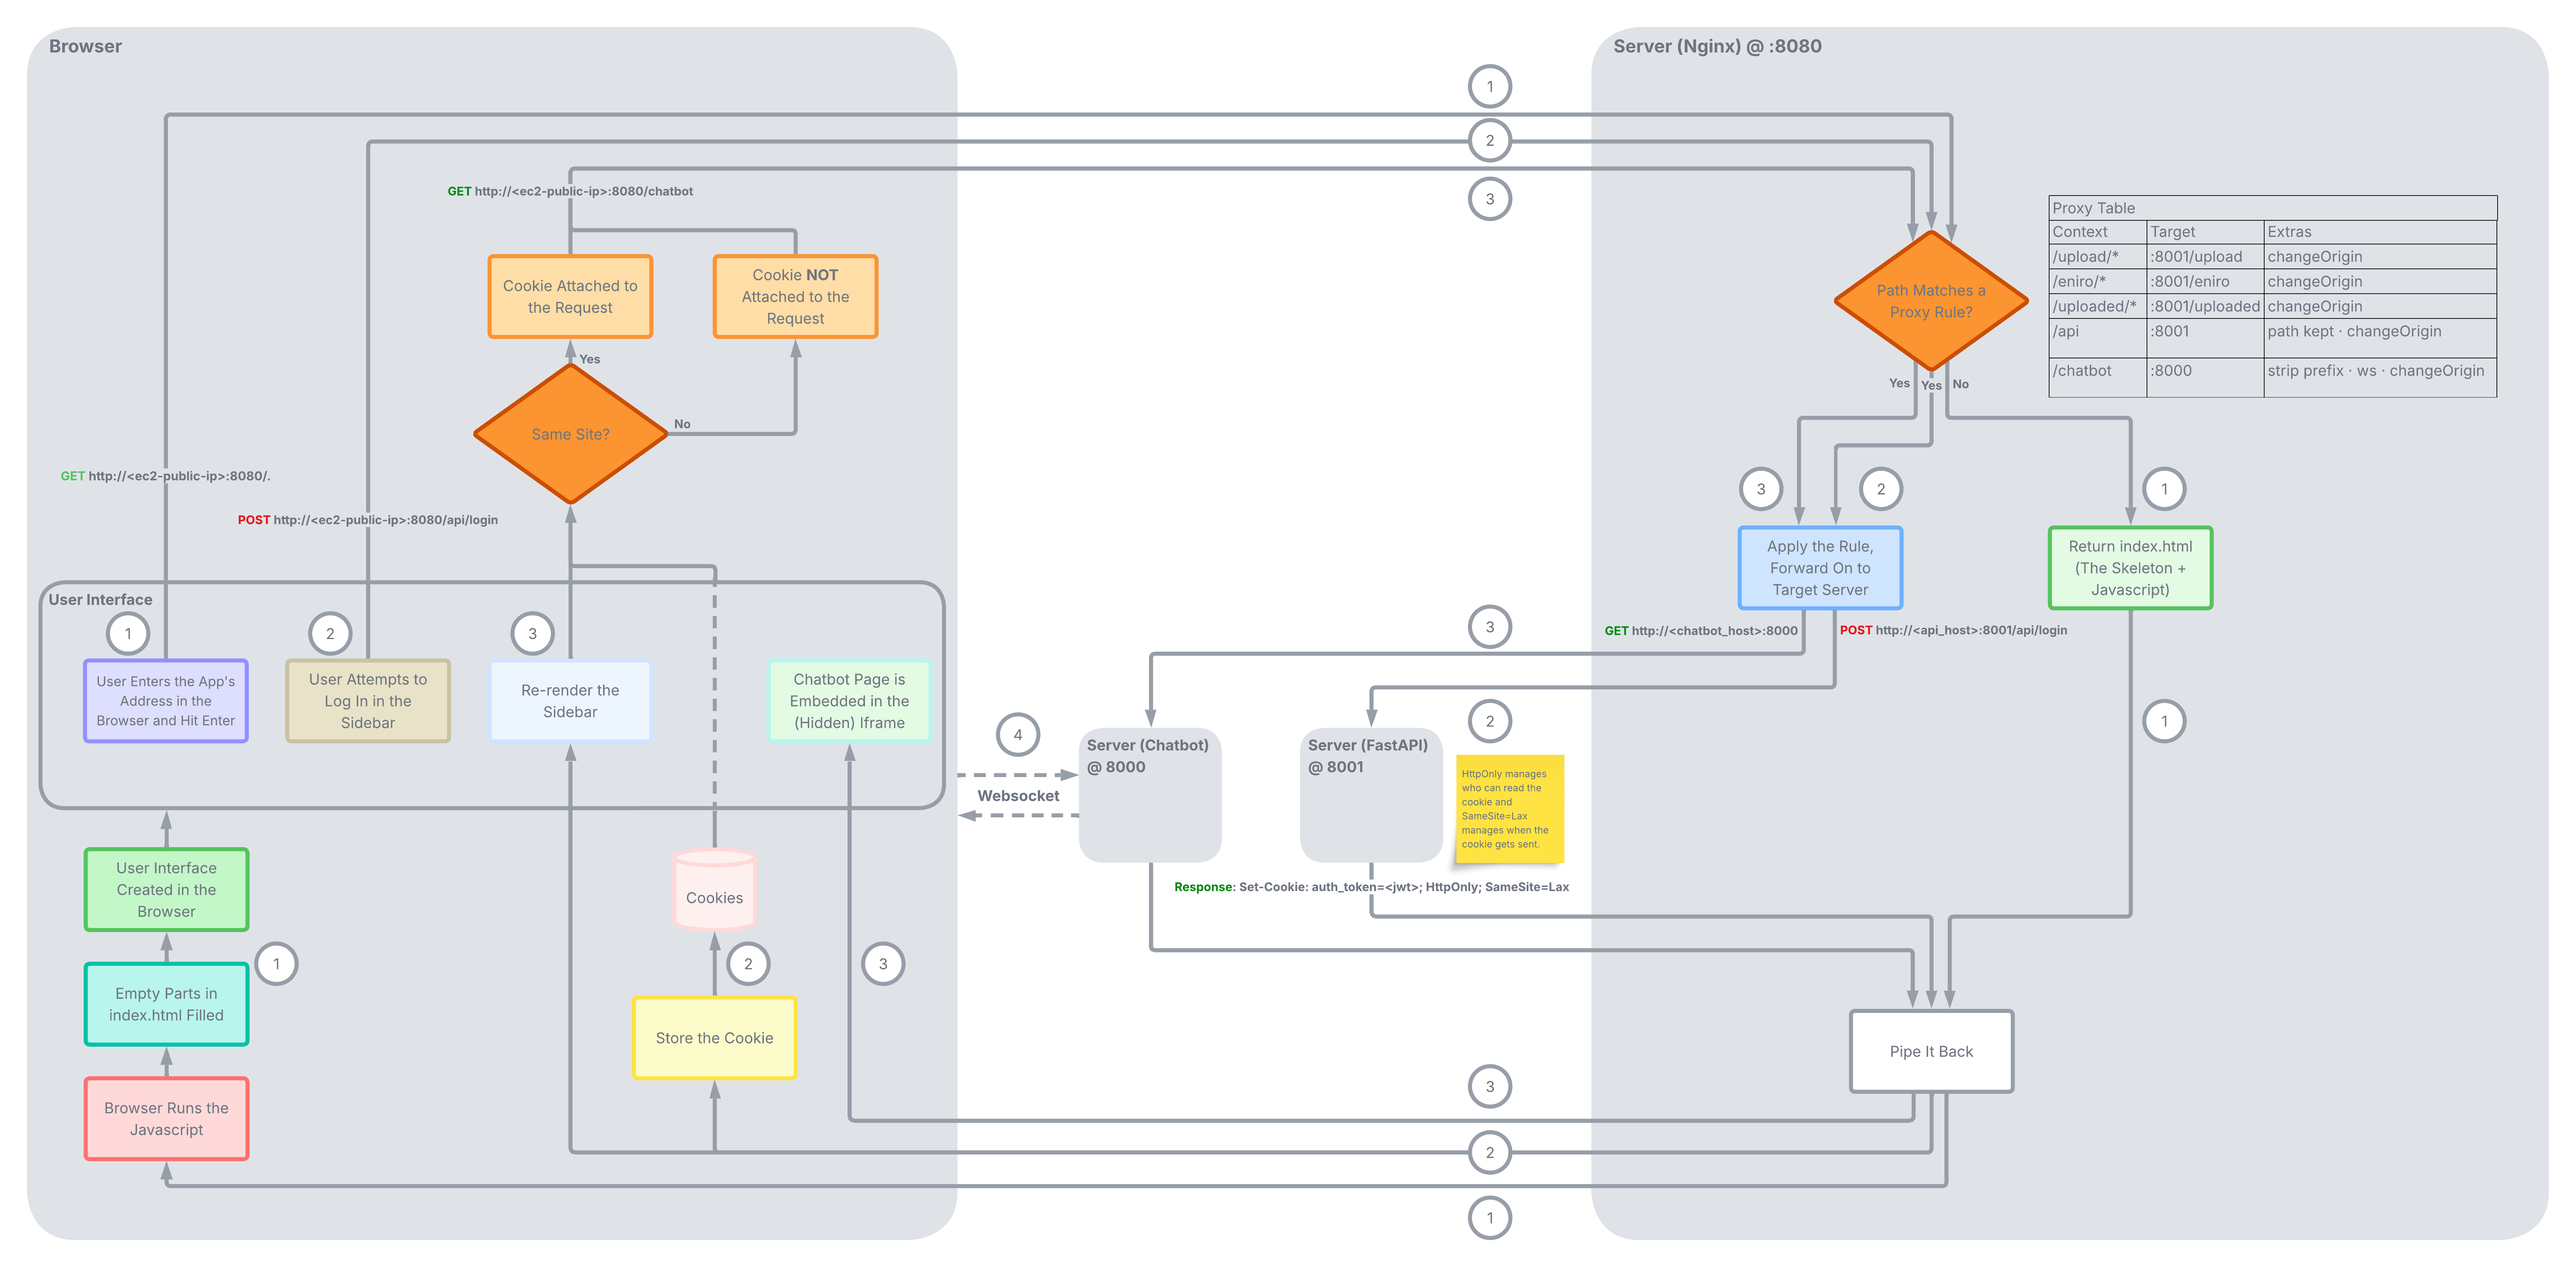
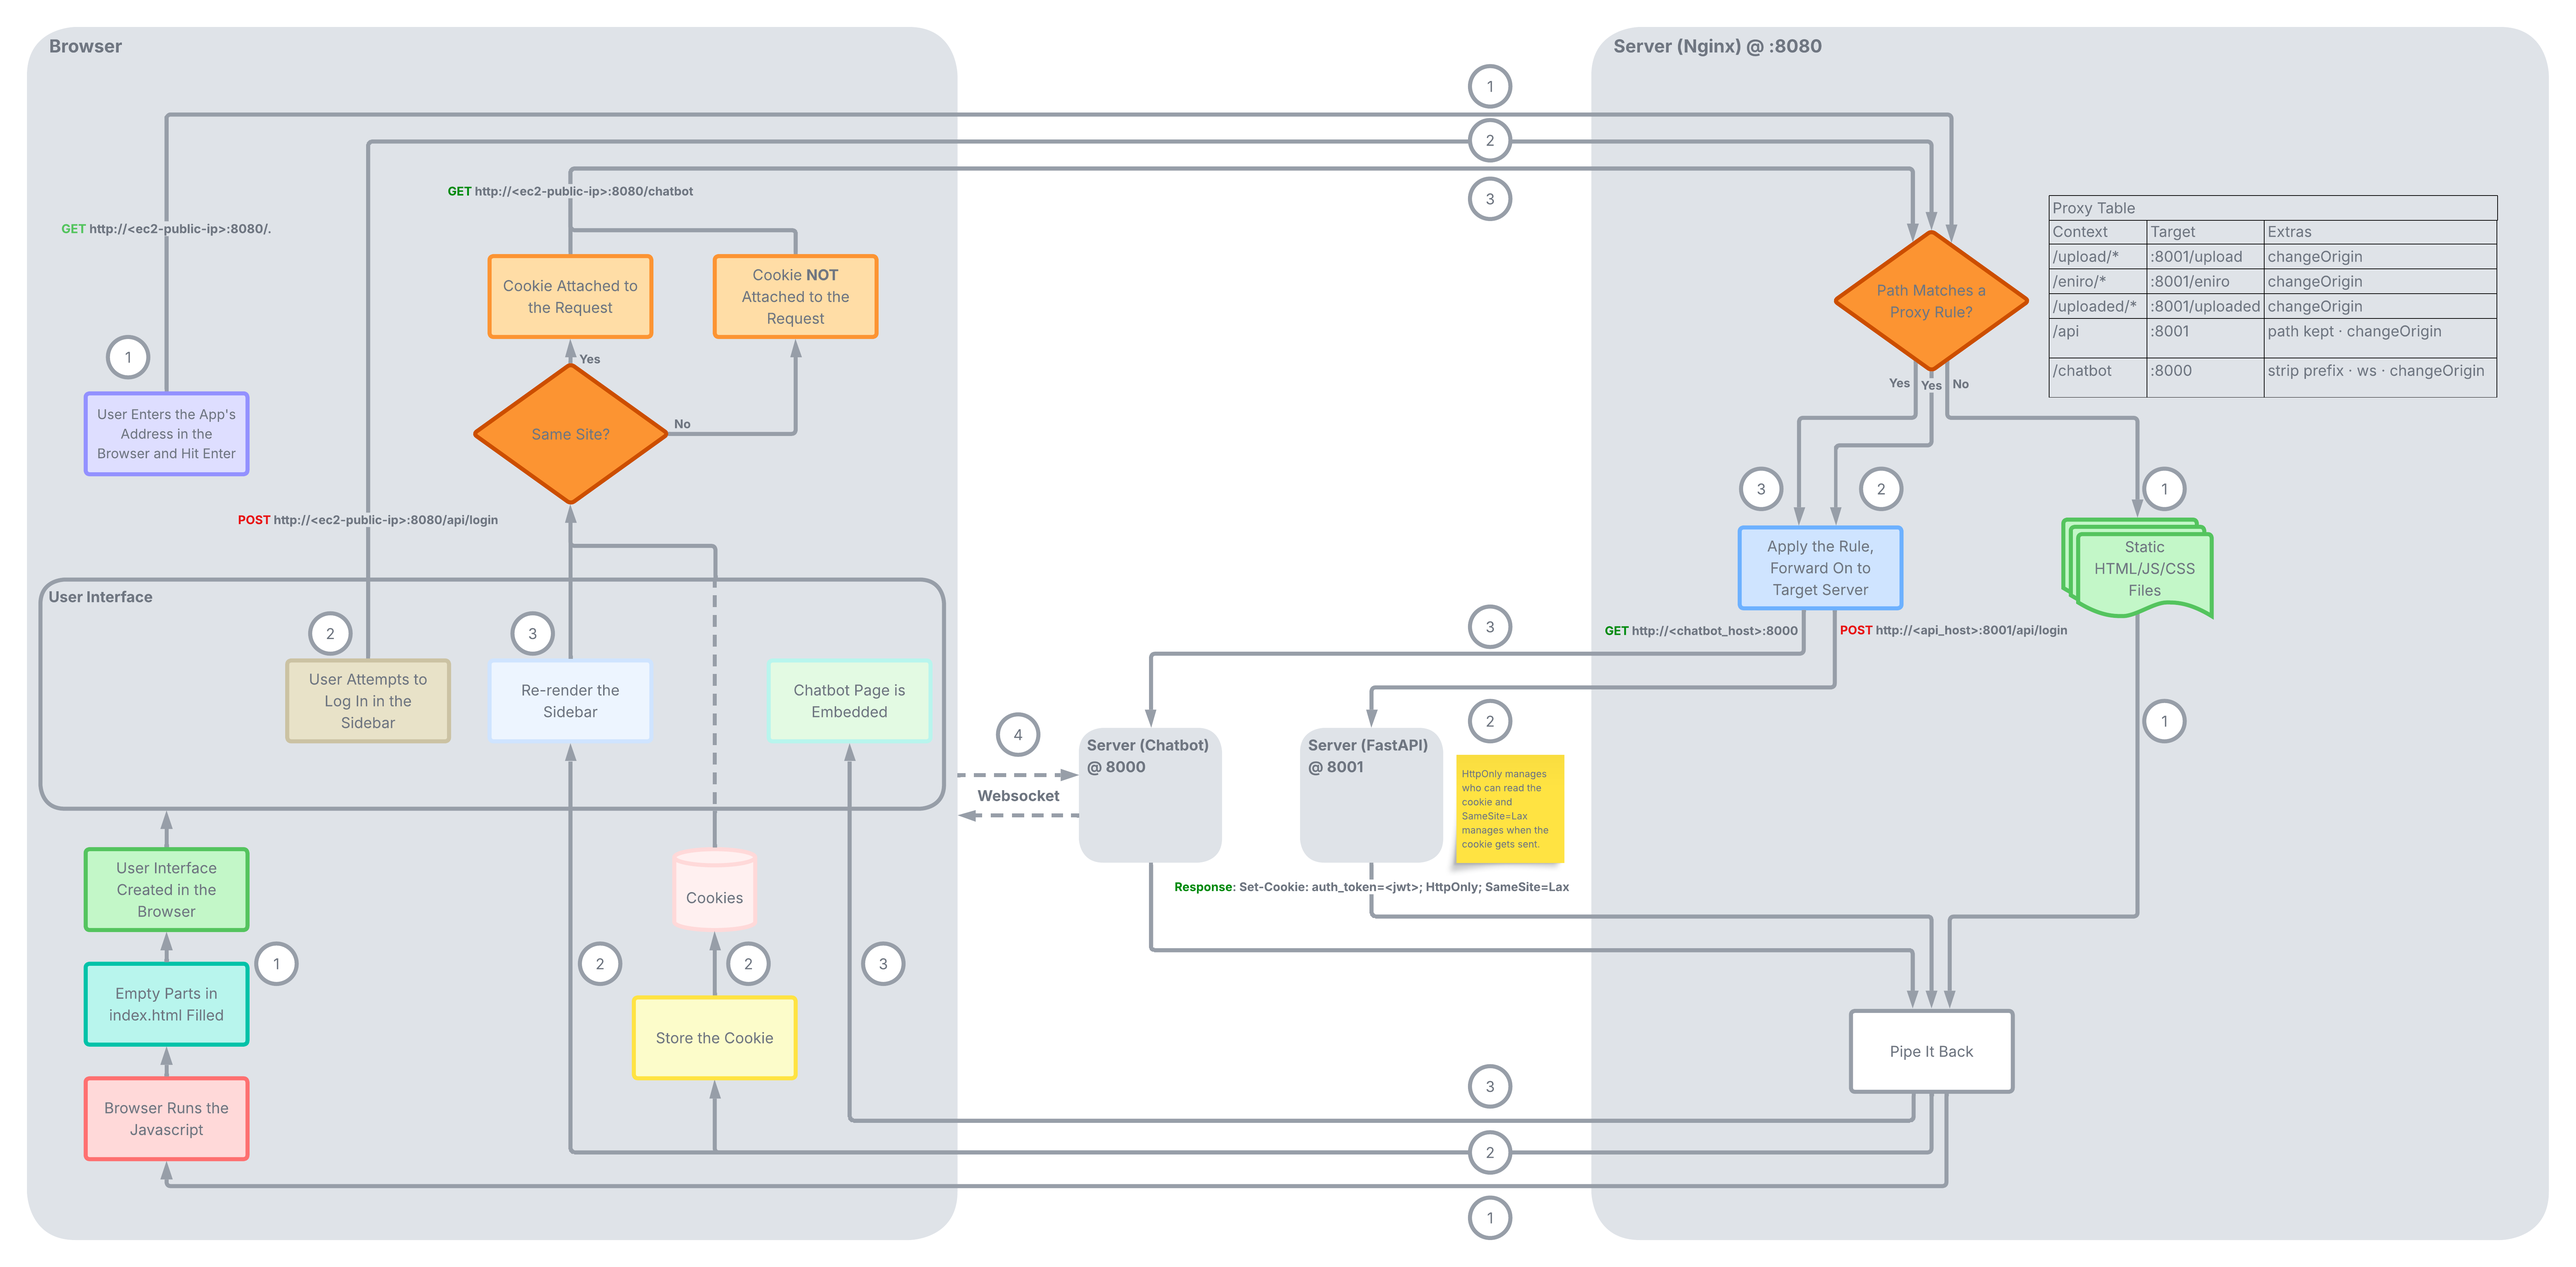
docs: a flow chart and the progress of features are updated

diff --git a/README.md b/README.md
@@ -37,7 +37,7 @@ My main motivation behind the project is to improve my skills in building a full
 
 ### Deployment
 - Multi-service Docker orchestration <span style="color: #28a745; font-weight: bold;">**(Done)**</span>
-- Reverse proxy integration <span style="color:rgb(245, 48, 18); font-weight: bold;">**(Not Started)**</span>
+- Reverse proxy integration <span style="color:rgb(241, 140, 16); font-weight: bold;">**(In Progress)**</span>
 - Deployment in AWS EC2 <span style="color: #28a745; font-weight: bold;">**(Done)**</span>
 
 # System

diff --git a/index.md b/index.md
@@ -39,7 +39,7 @@ My main motivation behind the project is to improve my skills in building a full
 
 ### Deployment
 - Multi-service Docker orchestration <span style="color: #28a745; font-weight: bold;">**(Done)**</span>
-- Reverse proxy integration <span style="color:rgb(245, 48, 18); font-weight: bold;">**(Not Started)**</span>
+- Reverse proxy integration <span style="color:rgb(241, 140, 16); font-weight: bold;">**(In Progress)**</span>
 - Deployment in AWS EC2 <span style="color: #28a745; font-weight: bold;">**(Done)**</span>
 
 # System
